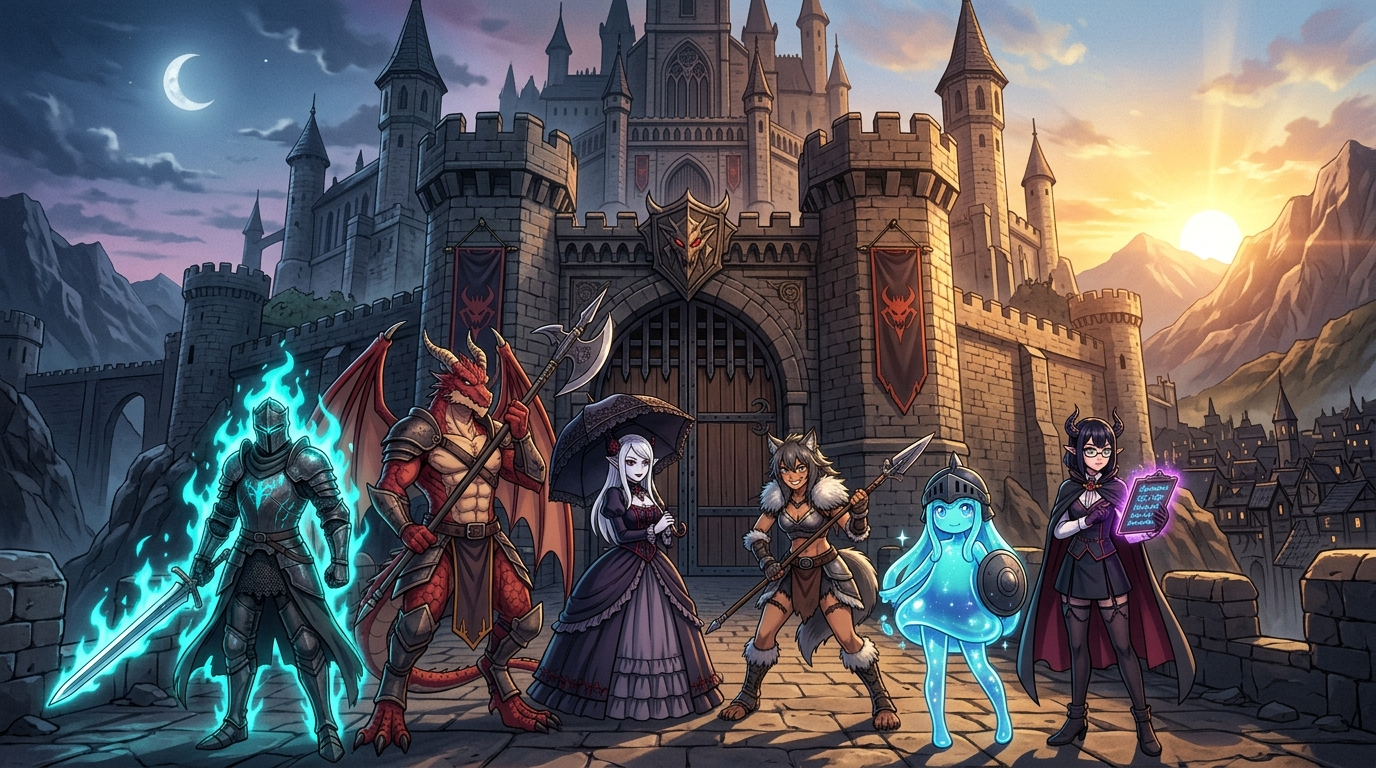
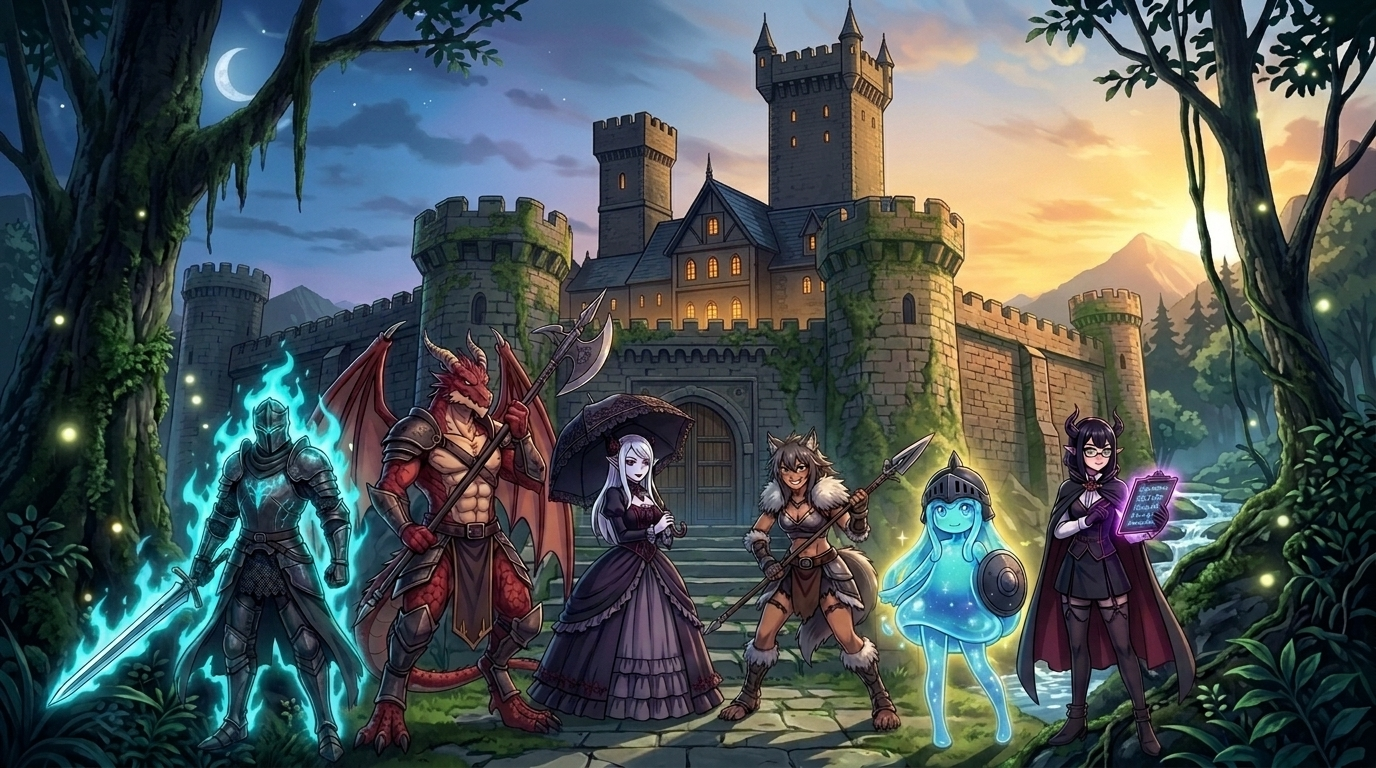
feat(demo): unify opening castle artwork and streamline prologue audio and calendar labels

diff --git a/examples/web-demo/games/demon-castle-shift/main.ts b/examples/web-demo/games/demon-castle-shift/main.ts
@@ -506,7 +506,6 @@ function renderOpeningCut(index: number): void {
   imgEl.classList.add(cut.cameraClass);
 
   renderOpeningParticles(cut.particleColor);
-  soundEngine.playOpeningCutChime(opCutIndex);
 
   const climaxOverlay = getEl<HTMLElement>("op-climax-overlay");
   const finishBtn = getEl<HTMLButtonElement>("btn-op-finish");
@@ -775,14 +774,15 @@ function renderStageProgressNav(): void {
       idx <= saveData.unlockedStageIndex ||
       idx + 1 <= saveData.highestUnlockedWeek;
     const isActive = currentStage.id === st.id;
-    const rank = saveData.clearedRanks[st.id];
-    const rankBadge = rank
-      ? `<span class="stage-rank-mini">${rank}</span>`
+    const isCleared = Boolean(saveData.clearedRanks[st.id]);
+    const rankBadge = isCleared
+      ? `<span class="stage-rank-mini" title="防衛成功">✓</span>`
       : !isUnlocked
         ? `<span>🔒</span>`
         : "";
-    const label = idx === 0 ? formatCastleCalendarMonth(idx + 1, true) : formatCastleCalendarMonth(idx + 1, false);
-    return `<button type="button" class="stage-pill-btn ${isActive ? "is-active" : ""}" data-stage-idx="${idx}" ${!isUnlocked ? "disabled" : ""}>
+    const label = formatCastleCalendarMonth(idx + 1, false);
+    const fullEraTitle = formatCastleCalendarMonth(idx + 1, true);
+    return `<button type="button" class="stage-pill-btn ${isActive ? "is-active" : ""}" data-stage-idx="${idx}" ${!isUnlocked ? "disabled" : ""} title="${fullEraTitle}">
       <span>${label}</span>
       ${rankBadge}
     </button>`;
@@ -2517,12 +2517,11 @@ async function openDispatchResultDialog(): Promise<void> {
     rowEl?.classList.remove("is-active");
     if (o.isWin) {
       rowEl?.classList.add("win");
-      const winLabel = o.isPerfectDefense ? "完全防衛" : "防衛成功";
       if (resEl) {
-        resEl.textContent = `🛡 防衛 ${o.defensePower} vs 敵 ${o.actualEnemyPower}（${winLabel}）`;
+        resEl.textContent = `🛡 防衛 ${o.defensePower} vs 敵 ${o.actualEnemyPower}（防衛成功）`;
       }
       if (cutinPhasePill) {
-        cutinPhasePill.textContent = o.isPerfectDefense ? "✨ 完全防衛" : "🛡 防衛成功";
+        cutinPhasePill.textContent = "🛡 防衛成功";
         cutinPhasePill.className = "cutin-phase-pill is-win";
       }
       leftSide?.classList.add("is-lunge-win");
@@ -2530,17 +2529,13 @@ async function openDispatchResultDialog(): Promise<void> {
       cutinBox?.classList.add(o.isPerfectDefense ? "is-perfect-flash" : "is-win-flash");
       fxOverlay?.classList.add(o.isPerfectDefense ? "is-perfect" : "is-win");
       if (fxStamp) {
-        fxStamp.textContent = o.isPerfectDefense
-          ? `✨ 完全防衛（防衛 ${o.defensePower} vs 敵 ${o.actualEnemyPower}）`
-          : `🛡 防衛成功（防衛 ${o.defensePower} vs 敵 ${o.actualEnemyPower}）`;
+        fxStamp.textContent = `🛡 防衛成功（防衛 ${o.defensePower} vs 敵 ${o.actualEnemyPower}）`;
       }
       if (vsCenter) {
-        vsCenter.textContent = o.isPerfectDefense ? "✨" : "🛡";
+        vsCenter.textContent = "🛡";
       }
       if (tugStatus) {
-        tugStatus.textContent = o.isPerfectDefense
-          ? `✨ 完全防衛（${o.defensePower} vs ${o.actualEnemyPower}）`
-          : `🛡 防衛成功（${o.defensePower} vs ${o.actualEnemyPower}）`;
+        tugStatus.textContent = `🛡 防衛成功（${o.defensePower} vs ${o.actualEnemyPower}）`;
         tugStatus.className = "tug-status-center is-win";
       }
       if (salStatusTextEl && remainingHp > 0) {
@@ -2673,17 +2668,12 @@ async function openDispatchResultDialog(): Promise<void> {
   soundEngine.setSceneTrack("victory");
   syncAudioButtonUi();
   soundEngine.playVictoryFanfare();
-  const rank = recordStageVictory(remainingHp, maxHp);
-  const rankTitle =
-    rank === "S"
-      ? "評価 S：完全防衛（全襲来を完封）"
-      : "評価 A：警備成功（城門防衛達成）";
+  recordStageVictory(remainingHp, maxHp);
+  const rankTitle = `防衛成功 — ${formatCastleCalendarMonth(currentStage.weekNumber)}の警備完了`;
 
   if (salStatusTextEl) {
     salStatusTextEl.textContent =
-      remainingHp === maxHp
-        ? "城門は一度も抜かれることなく、魔王城の静かな日常が守られた。"
-        : "激しい攻防の末、魔王城の城門を守り抜くことができた。";
+      "城門は一度も抜かれることなく、魔王城の静かな日常が守られた。";
   }
 
   const nextWeekNumber = currentStage.weekNumber + 1;
@@ -2710,7 +2700,7 @@ async function openDispatchResultDialog(): Promise<void> {
   const adaptiveNoteHtml = !hasNextCampaignStage
     ? `<div class="lore-unlock-card" style="margin-top:0.65rem;">
         <h4>翌月の警備難度調整（${formatCastleCalendarMonth(nextWeekNumber)}・難易度：${nextAdaptiveLabel}）</h4>
-        <p>これまでの警備履歴（残り城門ライフやヒント使用状況）に応じて、${formatCastleCalendarMonth(nextWeekNumber)}の進軍状況が「難易度：${nextAdaptiveLabel}」に自動調整されました。</p>
+        <p>これまでの警備履歴（ヒント使用状況や再挑戦回数）に応じて、${formatCastleCalendarMonth(nextWeekNumber)}の進軍状況が「難易度：${nextAdaptiveLabel}」に自動調整されました。</p>
       </div>`
     : "";
 
@@ -2879,18 +2869,15 @@ function initGame(): void {
 
   getEl<HTMLButtonElement>("btn-op-next-cut").addEventListener("click", (e) => {
     e.stopPropagation();
-    soundEngine.playClick("day");
     advanceOpeningCut(true);
   });
 
   getEl<HTMLButtonElement>("btn-op-skip").addEventListener("click", () => {
-    soundEngine.playClick("off");
     finishOpeningMovie();
   });
 
   getEl<HTMLButtonElement>("btn-op-finish").addEventListener("click", (e) => {
     e.stopPropagation();
-    soundEngine.playClick("day");
     finishOpeningMovie();
   });
 
@@ -2941,7 +2928,6 @@ function initGame(): void {
 
   getEl<HTMLButtonElement>("btn-prologue-skip").addEventListener("click", (e) => {
     e.stopPropagation();
-    soundEngine.playClick("off");
     if (prologueTimer !== null) {
       window.clearInterval(prologueTimer);
       prologueTimer = null;
@@ -2954,16 +2940,22 @@ function initGame(): void {
 
   getEl<HTMLButtonElement>("btn-prologue-prev").addEventListener("click", (e) => {
     e.stopPropagation();
+    if (prologueTimer !== null) {
+      window.clearInterval(prologueTimer);
+      prologueTimer = null;
+      const slide = PROLOGUE_SLIDES[prologueSlideIndex];
+      getEl<HTMLElement>("prologue-slide-heading").textContent = slide.heading;
+      getEl<HTMLElement>("prologue-slide-text").textContent = prologueFullText;
+      return;
+    }
     if (prologueSlideIndex > 0) {
       prologueSlideIndex--;
-      soundEngine.playClick("off");
       renderPrologueSlide();
     }
   });
 
   getEl<HTMLButtonElement>("btn-prologue-next").addEventListener("click", (e) => {
     e.stopPropagation();
-    soundEngine.playClick("day");
     if (prologueTimer !== null) {
       window.clearInterval(prologueTimer);
       prologueTimer = null;

diff --git a/examples/web-demo/games/demon-castle-shift/stages.ts b/examples/web-demo/games/demon-castle-shift/stages.ts
@@ -53,11 +53,11 @@ export function getCastleCalendarYearMonth(
 
 export function formatCastleCalendarMonth(
   monthNumberOneBased: number,
-  includeEra = true,
+  includeEra = false,
   refDate: Date = new Date()
 ): string {
   const { eraName, year, month } = getCastleCalendarYearMonth(monthNumberOneBased, refDate);
-  return includeEra ? `${eraName} ${year}年${month}月` : `${year}年${month}月`;
+  return includeEra ? `${eraName} ${year}年${month}月` : `${month}月`;
 }
 
 /**
@@ -92,7 +92,7 @@ export const CAMPAIGN_STAGES: readonly StageScenario[] = [
     weekNumber: 1,
     numDays: 3,
     title: `${formatCastleCalendarMonth(1)}：先遣隊の偵察（3日間）`,
-    subtitle: "まずは3日間、3人の警備メンバーを得意な時間帯へ配置して守る。",
+    subtitle: `${formatCastleCalendarMonth(1, true)} — まずは3日間、3人の警備メンバーを得意な時間帯へ配置して守る。`,
     newRuleTitle: "基本ルール：得意な時間帯とドラゴの休養",
     newRuleSummary:
       "フェンリルは昼（防衛力400）、カーミラは夜（防衛力400）が得意です。ドラゴ（防衛力500）は昼も夜も頼りになりますが、1日働いたら翌日は必ず「休」にする必要があります。",

diff --git a/test/demon-castle-game.test.ts b/test/demon-castle-game.test.ts
@@ -93,10 +93,11 @@ describe("Demon Castle 24-Hour Guard Shift Game Solver & Stages (HiGHS only)", (
     });
     expect(formatCastleCalendarMonth(3, true, refDate)).toBe(`${CALENDAR_ERA_NAME} 953年12月`);
     expect(formatCastleCalendarMonth(4, true, refDate)).toBe(`${CALENDAR_ERA_NAME} 954年1月`);
+    expect(formatCastleCalendarMonth(4, false, refDate)).toBe("1月");
 
     const stage1 = CAMPAIGN_STAGES[0];
     expect(stage1.numDays).toBe(3);
-    expect(stage1.title).toContain(CALENDAR_ERA_NAME);
+    expect(stage1.subtitle).toContain(CALENDAR_ERA_NAME);
     expect(stage1.title).not.toContain("STAGE");
     expect(stage1.lilithIntro).toContain("一緒に");
     expect(stage1.tutorialSteps).toBeDefined();
